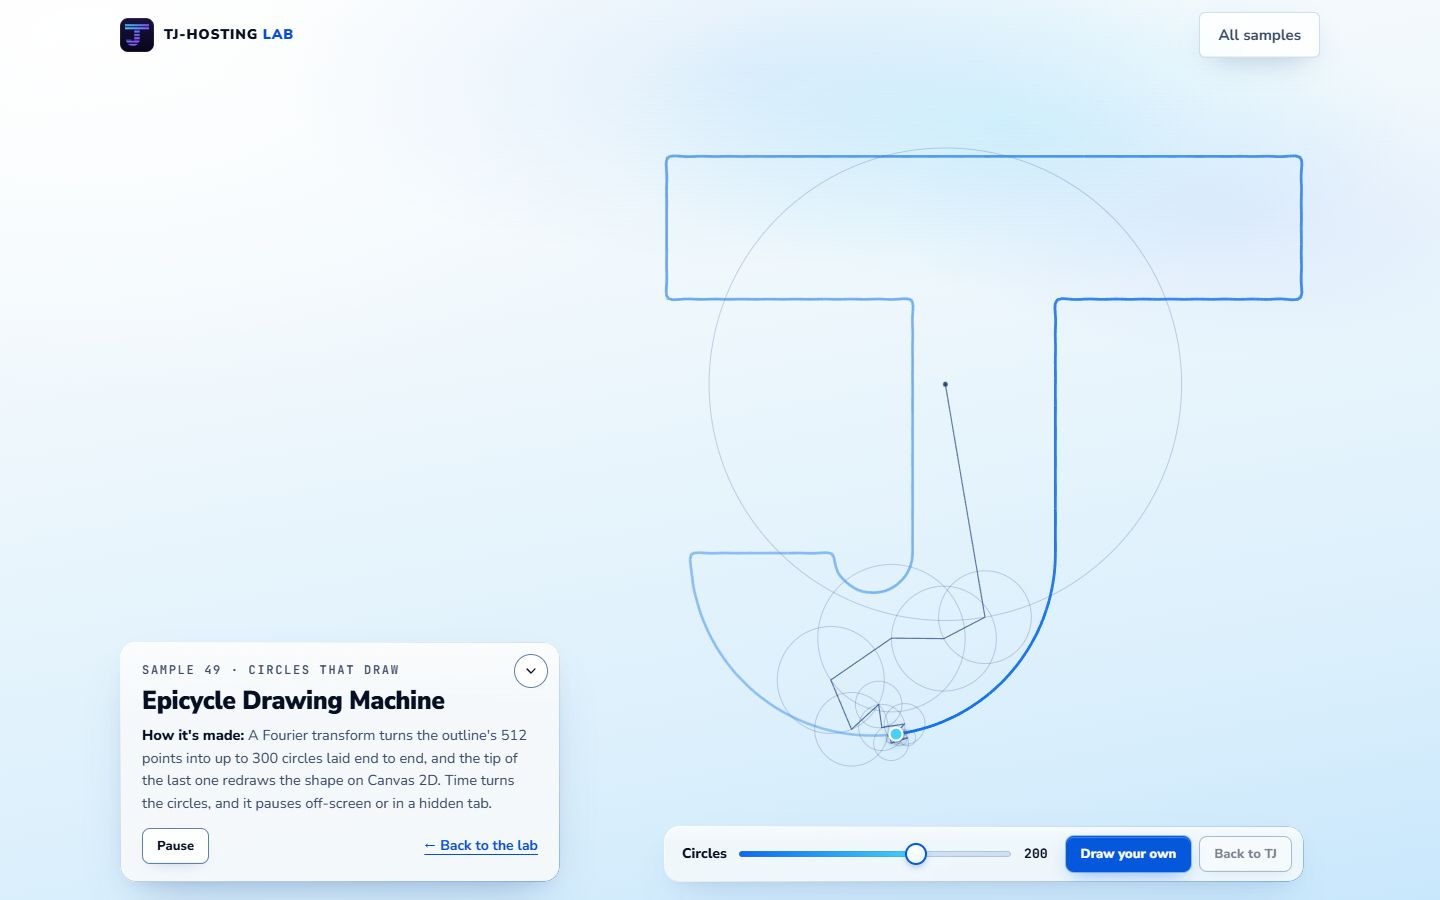
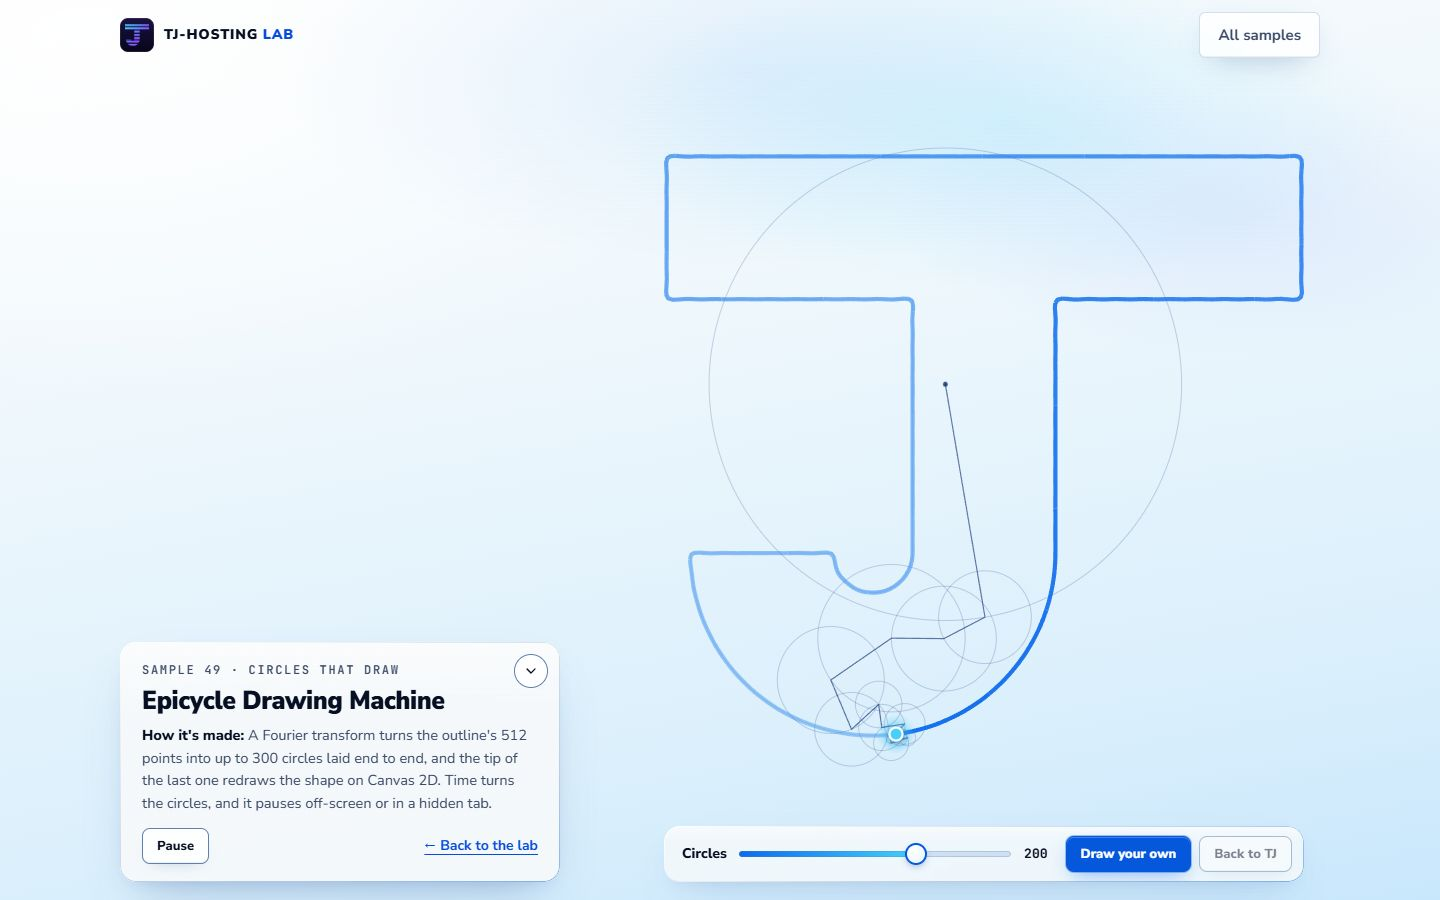
improve(lab-05): S46 bolder trail and a haloed pen tip
Trail 4.2 px on desktop and 3.4 px on phones (was 2.8 / 2.3), its faint end at 0.24 alpha (was 0.1), and a soft cyan halo under the pen tip so it reads on the sky. Re-gated: PASS, median 16.7 ms.

diff --git a/samples/epicycle-machine/piece.js b/samples/epicycle-machine/piece.js
@@ -361,9 +361,9 @@ function draw() {
 	const nb = 28;
 	const per = Math.max(2, Math.ceil((M - 1) / nb));
 	const full = reduced ? N : TRAIL * N;
-	const minA = reduced ? 0.42 : 0.1;
+	const minA = reduced ? 0.5 : 0.24;
 	ctx.lineCap = 'butt';
-	ctx.lineWidth = wide ? 2.8 : 2.3;
+	ctx.lineWidth = wide ? 4.2 : 3.4;
 	for (let b = Math.floor((M - 2) / per); b >= 0; b--) {
 		const j0 = b * per;
 		const j1 = Math.min(M - 1, (b + 1) * per);
@@ -397,6 +397,14 @@ function draw() {
 }
 
 function penTip(px, py) {
+	// a soft cyan halo first, so the tip reads on the sky at a glance
+	const halo = ctx.createRadialGradient(px, py, 4, px, py, 20);
+	halo.addColorStop(0, 'rgba(70, 208, 251, 0.55)');
+	halo.addColorStop(1, 'rgba(70, 208, 251, 0)');
+	ctx.fillStyle = halo;
+	ctx.beginPath();
+	ctx.arc(px, py, 20, 0, TAU);
+	ctx.fill();
 	ctx.save();
 	ctx.shadowColor = 'rgba(22, 66, 140, 0.45)';
 	ctx.shadowBlur = 9;

diff --git a/TASKS-lab-05.md b/TASKS-lab-05.md
@@ -151,7 +151,7 @@ None yet.
 - [P5] C28 (skill chips card) looked like capsule pills; queued C28b (rounded glass tags).
 - [P5] S47: the tick fires on every centre crossing (about 40 a second) at an untuned level; thin it (e.g. one voice per crossing of the middle bob group, or a rate cap) and set a gentle level.
 - [P5] S10: the word sits in a mostly empty screen; add faint ambient dithered currents across the field so the whole window lives.
-- [P5] S46: the drawn trail is thin and faint on the sky; bolder royal trail with a brighter pen tip.
+- [P5] S46: the drawn trail is thin and faint on the sky; bolder royal trail with a brighter pen tip. **Done 06:01Z**: trail 4.2 px (3.4 on phones, was 2.8 / 2.3), its faint end at 0.24 alpha (was 0.1), a cyan halo under the pen tip; re-gated 16.7 ms.
 - [P5] S26: the night theme never shows unless someone pulls; an idle pull every 20 s or so would show the twist at a glance. **Done 05:48Z**: first self-pull after 9 s, then every 20 s; a grab or pull restarts the count. Probe: night at about 10 s, day again at about 30 s, no errors; re-gated 16.7 ms.
 - [P5] S36: at rest the beams are often between runs; keep at least two in flight so the idle hub always shows light moving. **Done 05:53Z**: the source's ease-out parked each light under its tile for most of its run and the six beams ran in phase; now a gentle ease-in-out, staggered first runs, and at least four beams on their way at once (probe: 3-4 lights in each of four stills over 6 s). Re-gated 16.7 ms.
 - [P5] S22: the curtain is subtle in a still; stronger folds or a corner already torn so the twist reads at a glance.

diff --git a/evidence/lab-05/samples/epicycle-machine/check.md b/evidence/lab-05/samples/epicycle-machine/check.md
@@ -1,17 +1,17 @@
 # check-sample: epicycle-machine — PASS
 
-2026-10-28T04:37:15.514Z · Chromium WebGL: ANGLE (AMD, AMD Radeon (TM) Graphics (0x000015E7) Direct3D11 vs_5_0 ps_5_0, D3D11) · Firefox: not run (browserType.launch: spawn UNKNOWN)
+2026-10-28T06:01:00.450Z · Chromium WebGL: ANGLE (AMD, AMD Radeon (TM) Graphics (0x000015E7) Direct3D11 vs_5_0 ps_5_0, D3D11) · Firefox: not run (browserType.launch: spawn UNKNOWN)
 
 ## Notes
 - loads 8 local files: samples/epicycle-machine/index.html, css/glass.css, css/lab.css, css/sample.css, samples/epicycle-machine/piece.css, js/early.js, samples/epicycle-machine/piece.js, js/lab.js
 - Chromium 141.0.7390.37, WebGL renderer: ANGLE (AMD, AMD Radeon (TM) Graphics (0x000015E7) Direct3D11 vs_5_0 ps_5_0, D3D11)
-- frame time: median 16.7 ms, p95 16.8 ms at 1440
+- frame time: median 16.7 ms, p95 16.7 ms at 1440
 - Firefox: not run (browserType.launch: spawn UNKNOWN)
 
 ## Motion
 - reduced motion: {"anims":[],"loops":[],"rafPerSecond":0}
 - hidden tab: {"movingBefore":true,"hiddenRafIn1500ms":0,"hiddenAnims":[],"hiddenLoops":[],"resumed":true}
-- frame time: {"median":16.7,"p95":16.8,"frames":301} (gpu GL)
+- frame time: {"median":16.7,"p95":16.7,"frames":301} (gpu GL)
 
 ## Shell contrast (Chromium)
 width | selector | # | polarity | text | worst behind | ratio | need
